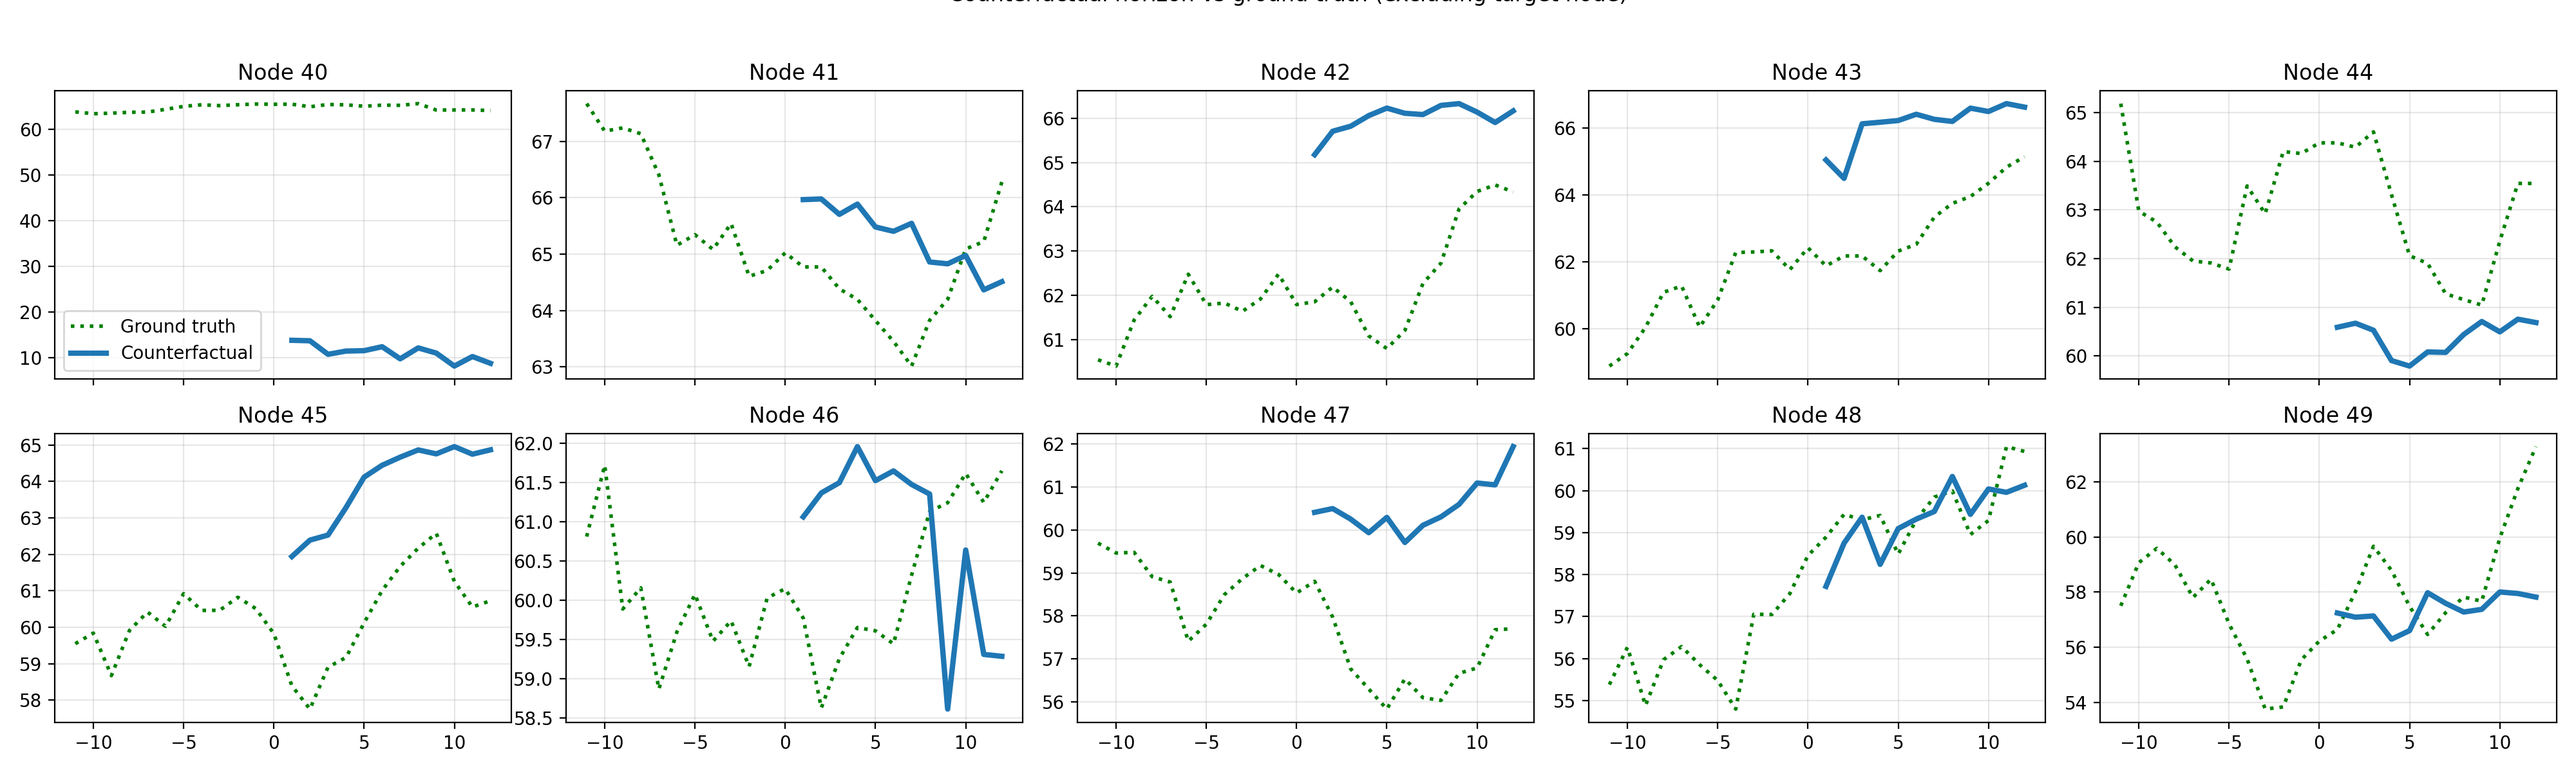
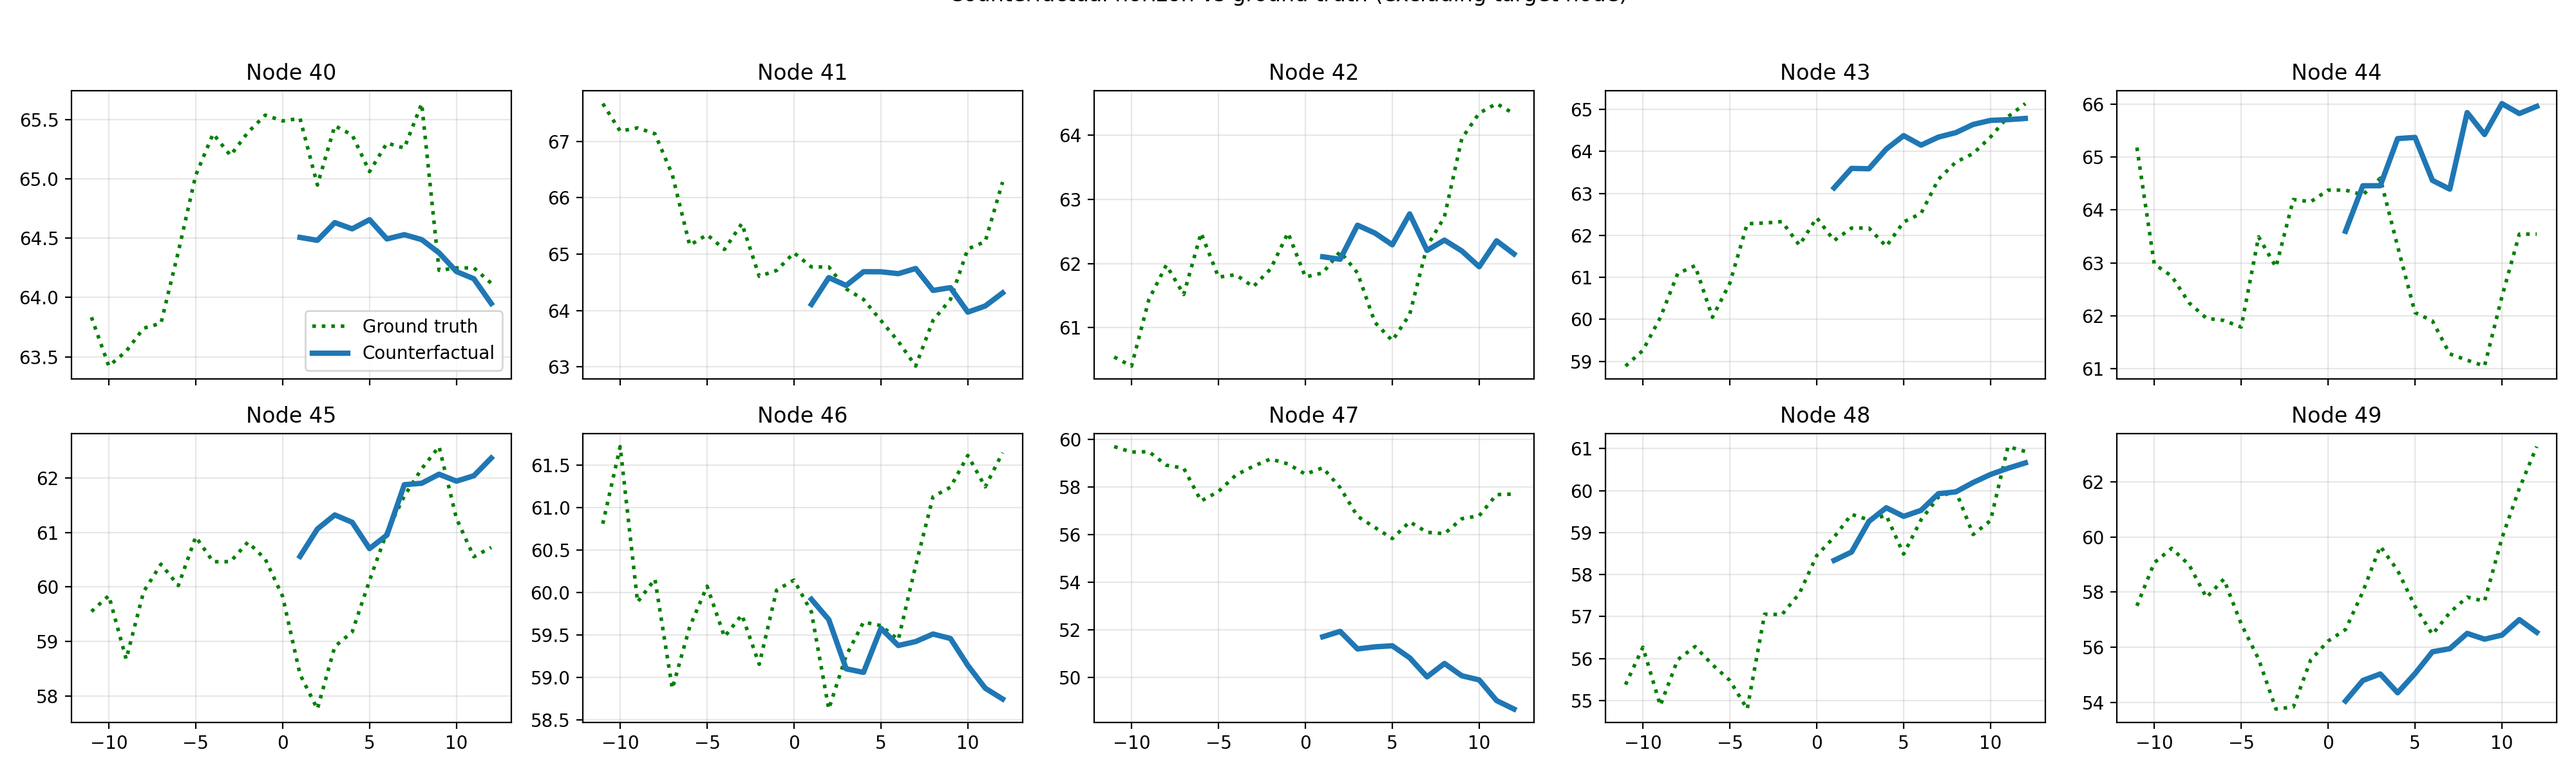
Update counterfactual plotting and guidance features
- Replaced the default sample count with a lower value in the command-line interface.
- Added new command-line arguments for masking target node history during iterative counterfactuals, including options for masking strategy and guidance weight.
- Implemented functions to handle masking of target node history in the forecasting process.
- Enhanced the `run_counterfactual_command` to incorporate the new masking features and updated the plotting logic to visualize step targets.
- Updated the `ForecastGuidance` class to support masked target nodes and values in the forecasting input.

diff --git a/main.py b/main.py
@@ -179,7 +179,7 @@ def add_counterfactual_subcommand(subparsers: argparse._SubParsersAction[argpars
     parser.add_argument("--sample_index", type=int, default=0)
     parser.add_argument("--mask_path", type=str, default=None, help="Optional path to a numpy mask of shape (T, N, F).")
     parser.add_argument("--target_path", type=str, default=None, help="Optional path to a numpy target (H, N).")
-    parser.add_argument("--samples", type=int, default=100)
+    parser.add_argument("--samples", type=int, default=10)
     parser.add_argument("--max_steps", type=int, default=None)
     parser.add_argument(
         "--iterative_guidance",
@@ -290,6 +290,24 @@ def add_counterfactual_subcommand(subparsers: argparse._SubParsersAction[argpars
         type=int,
         default=None,
         help="Number of lagged time steps to plot (from most recent backwards). If None, plots all available lag steps.",
+    )
+    parser.add_argument(
+        "--mask_target_history",
+        action="store_true",
+        help="Mask the target node's lag history when using the short-term forecaster during iterative counterfactuals.",
+    )
+    parser.add_argument(
+        "--mask_target_history_mode",
+        type=str,
+        choices=["zeros", "guidance", "alternating", "blend"],
+        default="zeros",
+        help="Strategy for masking the target node history when --mask_target_history is set.",
+    )
+    parser.add_argument(
+        "--mask_target_history_alpha",
+        type=float,
+        default=0.5,
+        help="Guidance weight for --mask_target_history_mode=blend (alpha * guidance + (1-alpha) * forecast).",
     )
     parser.add_argument(
         "--metrics_path",
@@ -648,6 +666,55 @@ def prepare_target(default_target: torch.Tensor, path: Optional[str]) -> torch.T
     if tensor.shape != default_target.shape:
         raise ValueError(f"Target shape {tensor.shape} does not match expected {default_target.shape}")
     return tensor
+
+
+def mask_target_history_input(
+    forecaster_input: torch.Tensor,
+    target_node: int,
+    target_channel: int,
+    mask_value: Optional[torch.Tensor] = None,
+) -> torch.Tensor:
+    if target_node < 0:
+        return forecaster_input
+    if forecaster_input.dim() != 4:
+        raise ValueError("forecaster_input must have shape (batch, channels, nodes, lag)")
+    if target_node >= forecaster_input.size(2):
+        raise ValueError(f"target node {target_node} is out of range for {forecaster_input.size(2)} nodes")
+    masked = forecaster_input.clone()
+    masked[:, :, target_node, :] = 0.0
+    if mask_value is not None and 0 <= target_channel < masked.size(1):
+        fill = torch.as_tensor(mask_value, device=masked.device, dtype=masked.dtype)
+        masked[:, target_channel, target_node, :] = fill
+    return masked
+
+
+def compute_mask_target_value(
+    mode: str,
+    step: int,
+    guidance_target: Optional[torch.Tensor],
+    iterative_predictions: Optional[torch.Tensor],
+    target_node: int,
+    alpha: float,
+) -> Optional[torch.Tensor]:
+    if mode == "zeros":
+        return None
+    if guidance_target is None:
+        raise ValueError("guidance_target is required for non-zero mask_target_history modes.")
+    if target_node < 0 or target_node >= guidance_target.size(0):
+        raise ValueError(f"target node {target_node} is out of range for {guidance_target.size(0)} nodes")
+    guidance_idx = max(step - 1, 0)
+    guidance_val = guidance_target[target_node, guidance_idx]
+    forecast_val = guidance_val
+    if iterative_predictions is not None and step > 0:
+        forecast_val = iterative_predictions[target_node, step - 1]
+    if mode == "guidance":
+        return guidance_val
+    if mode == "alternating":
+        return guidance_val if step % 2 == 1 else forecast_val
+    if mode == "blend":
+        alpha_val = float(alpha)
+        return guidance_val * alpha_val + forecast_val * (1.0 - alpha_val)
+    raise ValueError(f"Unknown mask_target_history_mode {mode}")
 
 
 def adjust_target(
@@ -1236,6 +1303,7 @@ def save_prediction_plot(
     adjusted_target: torch.Tensor,
     ground_truth: torch.Tensor,
     guidance_target: Optional[torch.Tensor] = None,
+    step_target: Optional[torch.Tensor] = None,
     lag_target: Optional[torch.Tensor] = None,
     plot_lag_steps: Optional[int] = None,
 ) -> None:
@@ -1283,6 +1351,15 @@ def save_prediction_plot(
             label="Guidance target",
             linestyle="-.",
             linewidth=2,
+        )
+    if step_target is not None:
+        plt.scatter(
+            steps,
+            step_target[node_index].detach().cpu().numpy(),
+            label="Step target",
+            marker="x",
+            color="black",
+            zorder=3,
         )
     plt.scatter(
         [horizon],
@@ -1666,7 +1743,9 @@ def run_counterfactual_command(args: argparse.Namespace) -> None:
         iterative_predictions = torch.zeros((bundle.num_nodes, iter_steps), device=device)
         iterative_actions = torch.zeros((bundle.num_nodes, iter_steps), device=device)
         iterative_targets = torch.zeros((bundle.num_nodes, iter_steps), device=device)
-        target_series = default_target.to(device)
+        if guidance_target is None:
+            raise ValueError("guidance_target is required for iterative guidance.")
+        target_series = guidance_target.to(device)
 
         edit_mask = torch.zeros_like(base_mask)
         edit_mask[-1] = 1.0
@@ -1674,8 +1753,20 @@ def run_counterfactual_command(args: argparse.Namespace) -> None:
         edit_mask = edit_mask.to(device)
 
         for step in range(iter_steps):
+            mask_value = None
+            if args.mask_target_history and args.target_adjust_node >= 0:
+                mask_value = compute_mask_target_value(
+                    args.mask_target_history_mode,
+                    step,
+                    target_series,
+                    iterative_predictions,
+                    args.target_adjust_node,
+                    args.mask_target_history_alpha,
+                )
             with torch.no_grad():
                 step_input = prepare_forecaster_input(current_window.unsqueeze(0))
+                if args.mask_target_history and args.target_adjust_node >= 0:
+                    step_input = mask_target_history_input(step_input, args.target_adjust_node, target_ch, mask_value)
                 step_pred = forecaster_module.forward_pass(
                     short_forecaster,
                     step_input,
@@ -1690,11 +1781,7 @@ def run_counterfactual_command(args: argparse.Namespace) -> None:
             step_pred = step_pred.squeeze(0)
             iterative_actions[:, step] = step_pred.squeeze(-1)
 
-            if args.target_adjust_node < 0:
-                step_target = target_series[:, step : step + 1]
-            else:
-                step_target = step_pred.clone()
-                step_target[args.target_adjust_node, 0] = target_series[args.target_adjust_node, step]
+            step_target = target_series[:, step : step + 1]
             iterative_targets[:, step] = step_target.squeeze(-1)
 
             target_batched = step_target.unsqueeze(0).repeat(args.samples, 1, 1)
@@ -1714,6 +1801,9 @@ def run_counterfactual_command(args: argparse.Namespace) -> None:
                 anchor_weights=anchor_step,
                 node_weights=node_weights,
                 neighbor_only_inputs=short_meta.get("neighbor_only_inputs", False),
+                masked_target_node=args.target_adjust_node if args.mask_target_history else None,
+                masked_target_channel=target_ch if args.mask_target_history else None,
+                masked_target_value=mask_value if args.mask_target_history else None,
                 model_type=short_model_type,
                 lag_weights=short_meta.get("lag_weights"),
             )
@@ -1732,6 +1822,8 @@ def run_counterfactual_command(args: argparse.Namespace) -> None:
 
             with torch.no_grad():
                 cf_input = prepare_forecaster_input(samples)
+                if args.mask_target_history and args.target_adjust_node >= 0:
+                    cf_input = mask_target_history_input(cf_input, args.target_adjust_node, target_ch, mask_value)
                 cf_preds = forecaster_module.forward_pass(
                     short_forecaster,
                     cf_input,
@@ -1774,6 +1866,7 @@ def run_counterfactual_command(args: argparse.Namespace) -> None:
         adjusted_target_plot = inverse_target_scale(adjusted_slice, bundle.scaler)
         default_target_plot = inverse_target_scale(default_slice, bundle.scaler)
         guidance_target_plot = inverse_target_scale(guidance_slice, bundle.scaler) if guidance_slice is not None else None
+        iterative_targets_plot = inverse_target_scale(iterative_targets_cpu, bundle.scaler)
 
         plot_node = args.plot_node if args.plot_node is not None else (args.target_adjust_node if args.target_adjust_node >= 0 else 0)
         plot_path = Path(args.plot_path) if args.plot_path else Path(args.output_path).with_name(Path(args.output_path).stem + "_plot.png")
@@ -1791,6 +1884,7 @@ def run_counterfactual_command(args: argparse.Namespace) -> None:
                 adjusted_target_plot,
                 default_target_plot,
                 guidance_target_plot,
+                step_target=iterative_targets_plot,
                 lag_target=lag_target_plot,
                 plot_lag_steps=args.plot_lag_steps,
             )
@@ -1875,6 +1969,9 @@ def run_counterfactual_command(args: argparse.Namespace) -> None:
             "metrics_plot_path": str(metrics_plot_path) if metrics_plot_path else None,
             "metrics_input": args.metrics_input,
             "metrics_eps": args.metrics_eps,
+            "mask_target_history": args.mask_target_history,
+            "mask_target_history_mode": args.mask_target_history_mode,
+            "mask_target_history_alpha": args.mask_target_history_alpha,
             "counterfactual_mse": None,
             "best_sample_index": None,
             "best_counterfactual_prediction": iterative_predictions_cpu,
@@ -2030,6 +2127,9 @@ def run_counterfactual_command(args: argparse.Namespace) -> None:
         "use_predicted_target": args.use_predicted_target,
         "plot_path": str(plot_path),
         "top_cf_window_plot_path": str(top_window_plot_path) if top_window_plot_path else None,
+        "mask_target_history": args.mask_target_history,
+        "mask_target_history_mode": args.mask_target_history_mode,
+        "mask_target_history_alpha": args.mask_target_history_alpha,
         "counterfactual_mse": mse_cpu,
         "best_sample_index": best_idx,
         "best_counterfactual_prediction": best_cf_prediction,

diff --git a/counterfactual/guidance.py b/counterfactual/guidance.py
@@ -77,6 +77,9 @@ class ForecastGuidance:
         anchor_weights: Optional[torch.Tensor] = None,
         node_weights: Optional[torch.Tensor] = None,
         neighbor_only_inputs: bool = False,
+        masked_target_node: Optional[int] = None,
+        masked_target_channel: Optional[int] = None,
+        masked_target_value: Optional[torch.Tensor] = None,
         model_type: str = "stgcn",
         lag_weights: Optional[torch.Tensor] = None,
     ) -> None:
@@ -91,6 +94,9 @@ class ForecastGuidance:
         self.upper_bounds = upper_bounds
         self.baseline = baseline.to(device).float().unsqueeze(0) if baseline is not None else None
         self.neighbor_only_inputs = neighbor_only_inputs
+        self.masked_target_node = masked_target_node
+        self.masked_target_channel = masked_target_channel
+        self.masked_target_value = masked_target_value
         self.model_type = model_type
         self.lag_weights = lag_weights
         if anchor_weights is not None:
@@ -129,6 +135,20 @@ class ForecastGuidance:
             x = x.detach()
             x.requires_grad_(True)
             forecaster_input = prepare_forecaster_input(x)
+            if self.masked_target_node is not None and self.masked_target_node >= 0:
+                if self.masked_target_node >= forecaster_input.size(2):
+                    raise ValueError(
+                        f"masked_target_node {self.masked_target_node} is out of range for {forecaster_input.size(2)} nodes"
+                    )
+                forecaster_input = forecaster_input.clone()
+                forecaster_input[:, :, self.masked_target_node, :] = 0.0
+                if (
+                    self.masked_target_value is not None
+                    and self.masked_target_channel is not None
+                    and 0 <= self.masked_target_channel < forecaster_input.size(1)
+                ):
+                    fill = torch.as_tensor(self.masked_target_value, device=forecaster_input.device, dtype=forecaster_input.dtype)
+                    forecaster_input[:, self.masked_target_channel, self.masked_target_node, :] = fill
             prediction = forward_pass(
                 self.forecaster,
                 forecaster_input,
